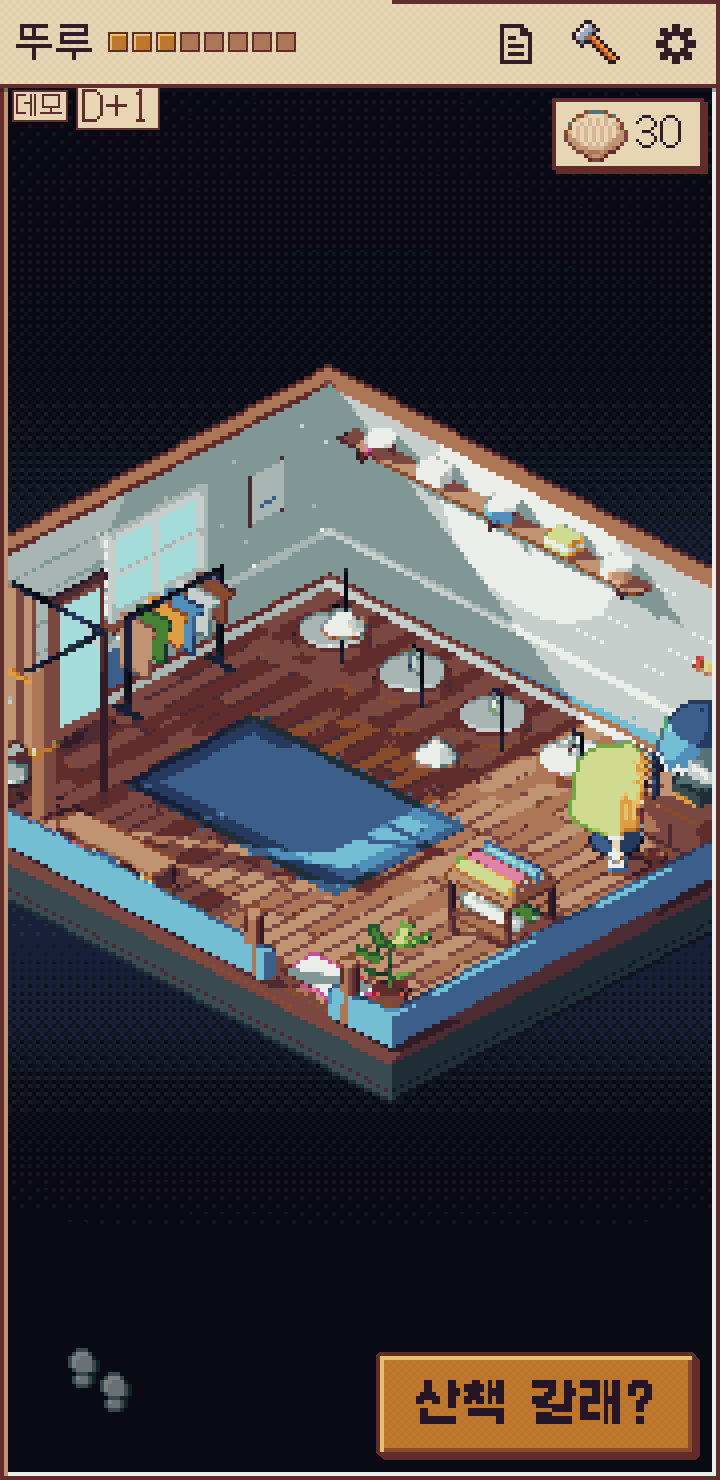
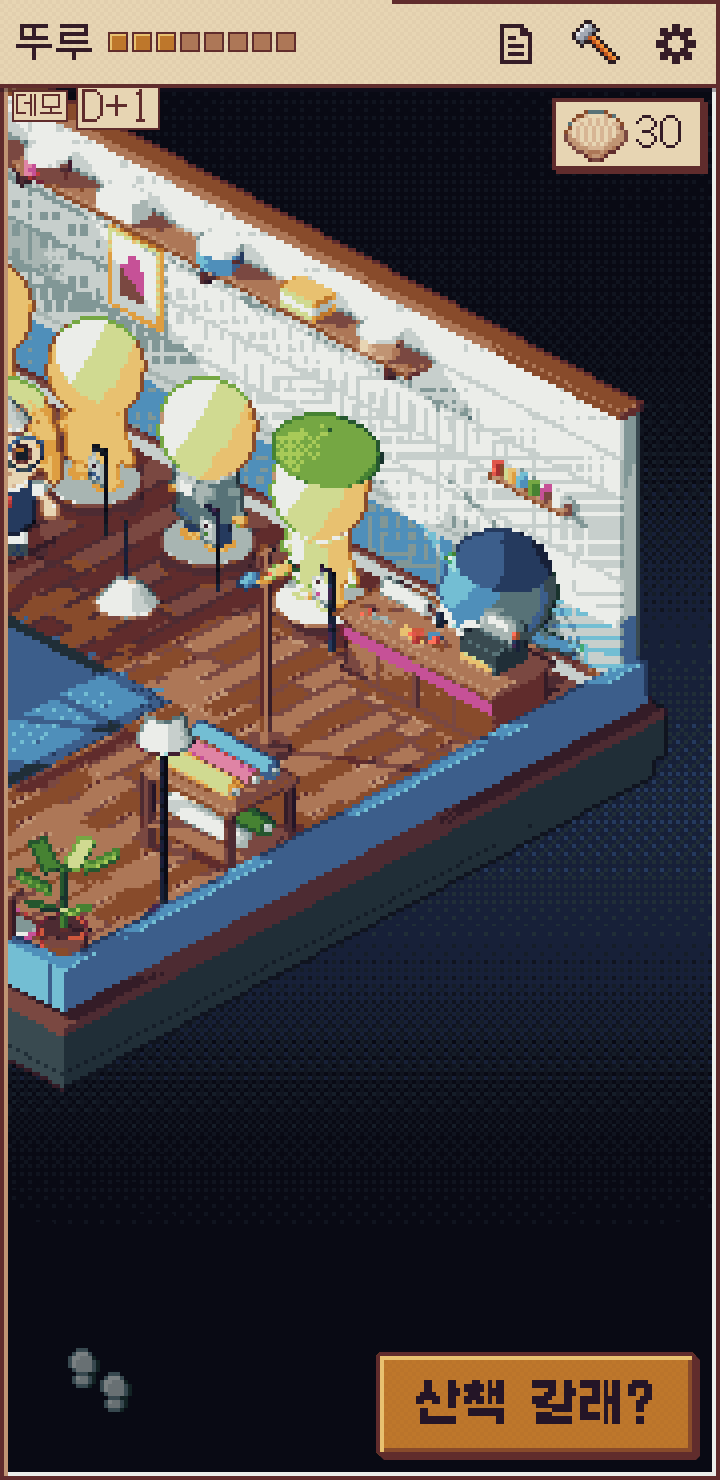
가게 방: 마네킹이 선 진짜 방의 그림 넷 · 보고서
Claude-Session: https://claude.ai/code/session_01Tq2y4UyHAQAeqPneYKgSFN

diff --git a/wip/round7/reports/S.md b/wip/round7/reports/S.md
@@ -111,7 +111,7 @@
 
 - 만든 것 (`js/app.js` `[7-S]` 의 `room*` 함수들, 표는 `docs/SHOP.md` 맨 위): 들어감 → 마네킹 꼬리표 카드 → 입어 보기 (저장 없음) → 거울 → 계산대 영수증 → 삼 (입은 채 · 팔림 표) → 안 사고 나가면 제자리. 잡화점: 선반 카드 → 살래 → 가방으로.
 - 카드는 dialog 가 아닌 `#scene` 안의 요소. 예전 시트는 `scene.enterRoom` 이 없을 때만 열린다 (방 안에서 마네킹 함수가 없으면 계산대가 예전 시트를 연다).
-- **진짜 방에서 한 번 돌려 봤다 (푸시하지 않은 임시 합침: 이 가지 + W · V · N · A)**: 마당 → 마을 → `APP.goInside('clothes')` → 마네킹 단추 톡 (걸어감) → 꼬리표 카드 → 입어 보기 → 계산대 톡 → 영수증 → 살래 → 조개 60 → 30 · 옷장에 들어옴. 그림 `room-real-{tag,tried,receipt,paid}-360.png`. 마네킹 · 입어 보기 · 자세 (P) 는 그때 그 가지에 없어 그 부분만 대역이었다 (그림에 마네킹이 안 보이는 까닭). 박자마다의 검사는 `tools/test-shop-live.js` 의 '가게 방' 묶음 (26, 계약 이름 그대로의 대역 + 진짜 누름).
+- **진짜 방에서 돌려 봤다 (11-22 19:25 UTC, 푸시하지 않은 임시 합침: 이 가지 + W · V · P · N · A)**: 마당 → 마을 → `APP.goInside('clothes')` → 마네킹 넷이 오늘의 네 벌 (P 의 `scene.mannequins`) → 마네킹 톡 (걸어감) → 꼬리표 카드 (A 의 값표) → 입어 보기 (P 의 `APP.tryOn`, 그 마네킹은 민몸) → 거울 (P 의 `playerCloseup` + `pose`) → 계산대 → 영수증 → 살래 → 조개 60 → 30 · 옷장에 들어옴. 그림 `room-real-{dressed,tag,mirror,receipt,paid}-360.png`. P 의 `mannequins` 가 방 칸을 못 읽는 것 (W 의 함수 이름이 `inSlots`) 은 내가 칸 자리를 `pos` 로 함께 넘겨 피했고 P 에게 알렸다. 박자마다의 검사는 `tools/test-shop-live.js` 의 '가게 방' 묶음.
 - P · V 에게 보낸 세부 약속: mannequins 의 slot 은 'mq0'..'mq3', parts 는 그 갈래 하나만 · tryOn(cat, id) / tryOff(cat) / wear(cat, id) · 들어가기는 V/W 가, 나는 `ppol:room` 만 듣는다 · 카드 자리는 단추의 화면 위치.
 - 새 글: `입어 보기` · `벗을래` · `입을래` · `입고 있어` · `모두 … 살까?` · `아직 고른 옷이 없어` · `<옷 · 옷>을/를 샀어` · 읽어 주는 이름 `영수증`.
 - 안 한 것: A 의 새 그림 (`ui.tag` 등) 은 안 쓰고 CSS 로 그린 값표 · 영수증을 쓴다. 영수증에서 한 벌만 빼기는 없다 (그만 → 마네킹에서 벗기).
@@ -119,3 +119,14 @@
 ## 스모크 전체 (리드 부탁 — 글자별 한 번)
 
 (아래에 결과)
+
+## 11-22 밤 (멈췄다 깬 뒤) 마지막 검토와 고침
+
+갈래 넷 (돈 · 박자 · 정직 · 화면) 이 코드를 읽고, 찾은 것마다 둘이 반박해 보는 검토를 한 번 돌렸다 (찾은 것 15).
+고친 것: 두 탭에서 다시 얹을 때 산 것 · 주운 것만 돌아오고 조개 변화는 빠지던 것 (공짜 옷 · 잃은 조개 — 이제 조개 변화가 함께, 못 내면 그 산 것은 버림) ·
+불러오기 직전의 것이 불러온 기록에 얹히던 것 · 문 단추가 `goInside` 의 답을 못 받으면 영영 멈추던 것 (8 s, `{ ok: true }` 도 성공, 움직임 줄이기면 시트) ·
+거울 도중에 방을 나가도 남은 박자가 돌던 것 · 산 뒤 0.7 s 에 다른 카드까지 닫던 것 · 날이 바뀌면 어제 입어 본 것을 벗기지 않던 것 ·
+`tryOff` 가 없거나 실패해도 벗은 것으로 치던 것 · 다른 것을 입어 보는 중인데 '입고 있어' 라고 하던 것 · 가게 주인의 들어올 때 · 나갈 때 줄이 대사 갈래에 바로 접히던 것 ·
+영수증이 장면보다 길면 단추가 잘리던 것 · 옷 그림이 세로로 늘어나던 것 · 모르는 저장 모양 (나중 빌드) 을 지우던 것.
+안 고친 것: 옷장 API 가 없을 때 옷가게 단추가 아무것도 안 하는 것 (이번 배포엔 P 가 있어 생기지 않는다).
+시험: `tools/test-shop.js` 95 · `tools/test-shop-live.js` 92 · `npm test` 통과.
